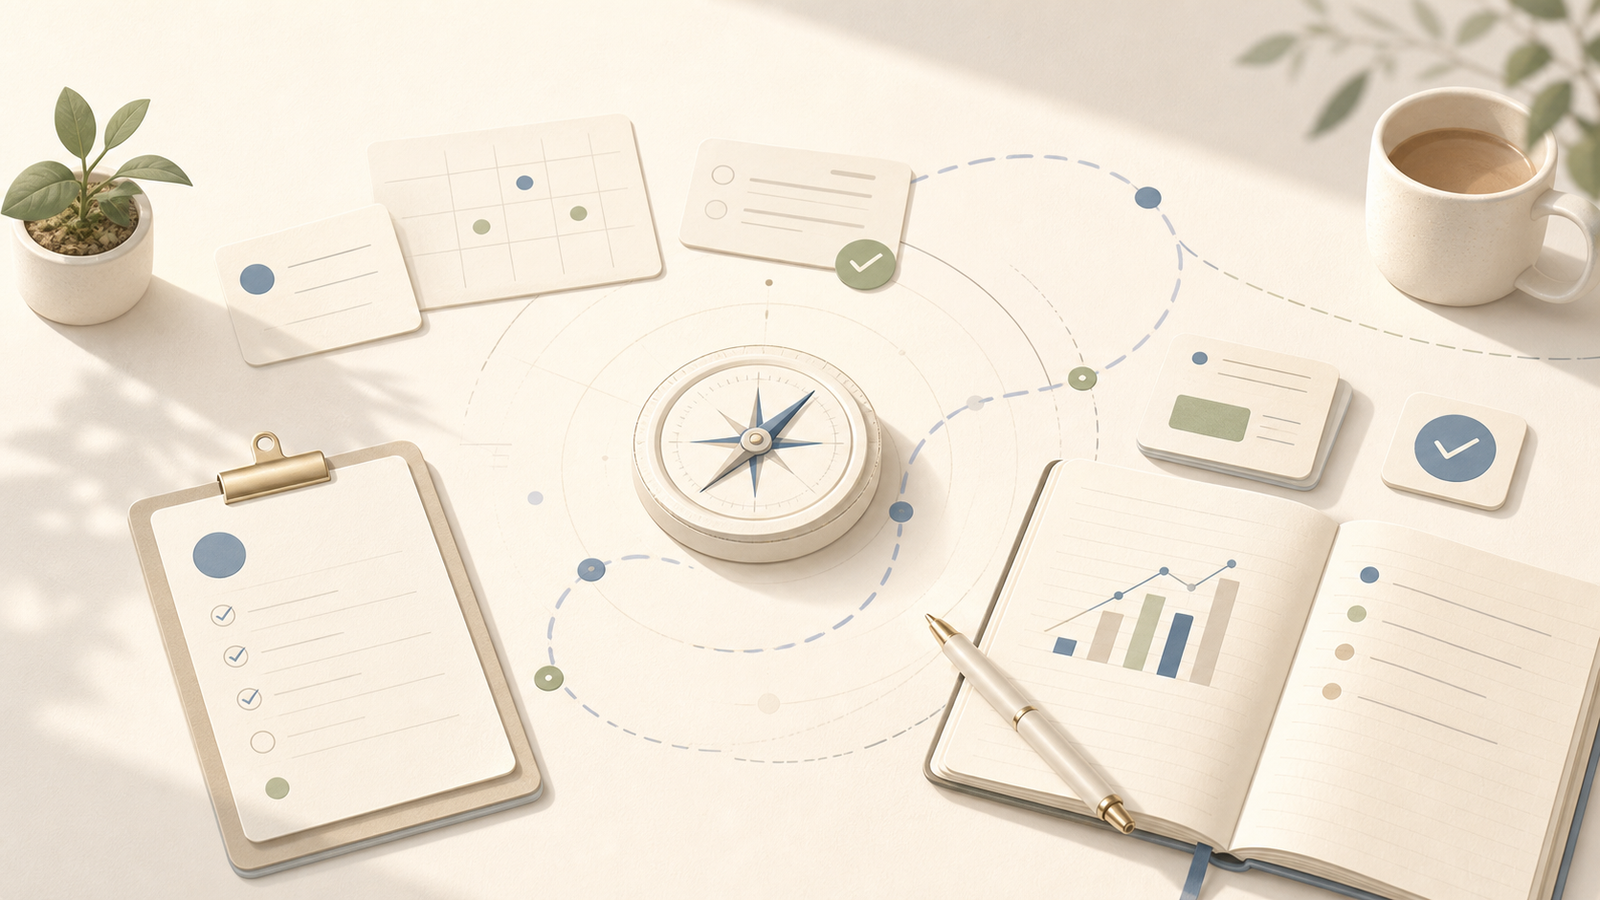
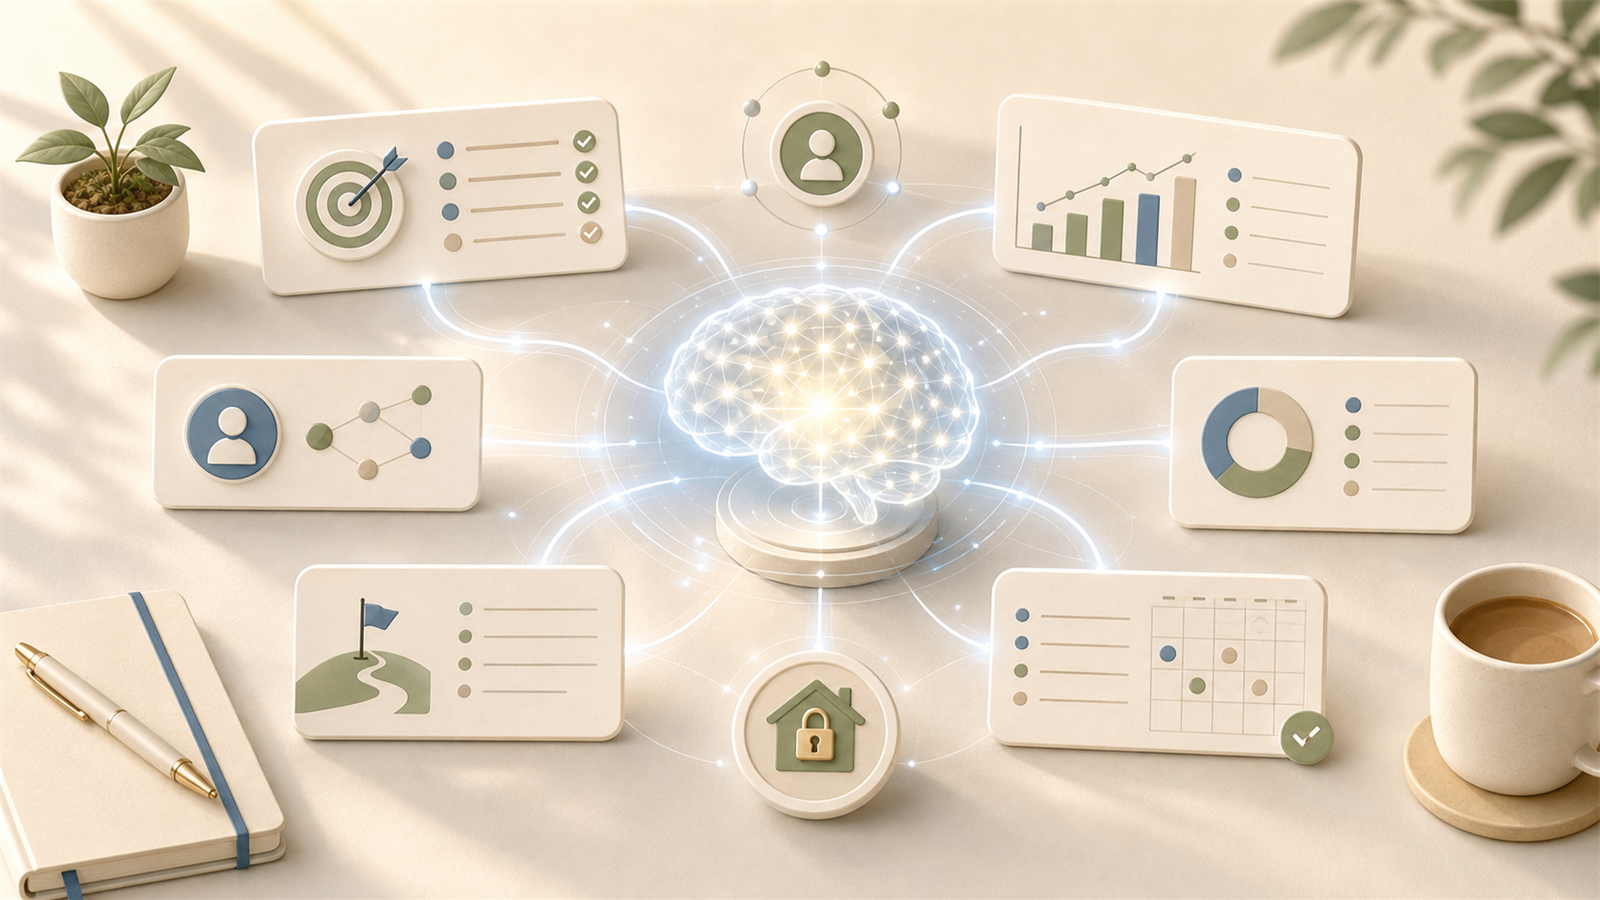
Update README AI workbench visuals

diff --git a/README.en.md b/README.en.md
@@ -1,14 +1,14 @@
 <p align="center">
-  <img src="docs/assets/daypilot-hero-banner.png" alt="DayPilot brand banner" width="920">
+  <img src="docs/assets/daypilot-hero-banner.png" alt="DayPilot AI daily workbench banner" width="920">
 </p>
 
 <p align="center">
-  <img src="docs/assets/daypilot-logo.png" alt="DayPilot Logo" width="112">
+  <img src="docs/assets/daypilot-logo.png" alt="DayPilot AI workbench logo" width="112">
 </p>
 
 <h1 align="center">DayPilot</h1>
 
-<p align="center">A local, private, single-user daily workbench: turn long-term direction into small deliverables for today, then generate a Friday review.</p>
+<p align="center">A local-first, privately controlled AI daily workbench that learns your habits over time: it adjusts goals from your profile, project progress, and daily feedback, then generates weekly reviews.</p>
 
 <p align="center">
   <a href="README.md">中文</a>
@@ -25,41 +25,43 @@
 
 ## What Is DayPilot
 
-DayPilot is a personal work agent designed around roughly four effective work hours per day. It does not try to replace your big life planning. Instead, it compresses your long-term direction, current projects, preferences, and constraints into a goal you can deliver, check, and review today.
+DayPilot is a local-first, single-user, privately controlled AI daily workbench designed around roughly four effective work hours per day. It does not try to replace your big life planning. Instead, it compresses your long-term direction, current projects, preferences, and constraints into a goal you can deliver, check, and review today.
+
+It keeps learning from `SOUL.md`, the SQLite user profile, project history, feedback revisions, check-ins, and weekly-report preferences. The more you use it, the closer DayPilot can stay to your work rhythm, output preferences, energy boundaries, and career direction.
 
 Its core loop is short:
 
-1. On workdays, it reads your long-term context and current projects, then generates today's goal.
+1. On workdays, it reads your long-term context, current projects, and profile data, then generates today's goal.
 2. During the day, you can revise the goal with feedback, such as narrowing scope, changing the output format, or adjusting the time budget.
-3. In the evening, you submit a check-in with completion status, subjective difficulty, and tomorrow's direction.
-4. On Friday, it generates a weekly report and next-week focus from the week's records.
+3. In the evening, you submit a check-in with completion status, subjective difficulty, project progress, and tomorrow's direction.
+4. On Friday, it generates a weekly report and next-week focus from the week's records, then uses stable preferences to shape later output.
 
-By default, data stays on your machine: the SQLite database, LLM logs, backups, and your real `SOUL.md` are not uploaded to external services, except for the DeepSeek API calls you configure.
+The AI is not just a task generator. It helps organize project state, rewrite today's goal, adjust weekly-report focus, suggest profile updates, and support career-planning conversations. By default, data stays on your machine: the SQLite database, LLM logs, backups, and your real `SOUL.md` are not uploaded to external services, except for the DeepSeek API calls you configure.
 
 ## Features
 
-**Daily goal**: Generate a small and deliverable goal for the active project, with acceptance criteria, minimum output, time estimate, and difficulty.
+**Local private workbench**: Keep the SQLite database, LLM logs, backups, and real `SOUL.md` on your machine by default, so personal projects, preferences, reviews, and career context can compound privately.
 
-**Feedback revision**: On the Today page, enter feedback like "I only have 45 minutes today", "this is too large", or "I want to write code", and DayPilot will generate a new goal version.
+**A personal profile that gets smarter with use**: Detect habits and constraints from stable context, daily feedback, check-ins, weekly-report preferences, and career chat. New profile facts become pending suggestions first, then are written to SQLite and `SOUL.md` only after confirmation.
 
-**Career planning chat**: In the **Career Planning** tab, talk to a private career-development planning assistant. It reads `SOUL.md`, the structured user profile, project history, ability state, and recent records to help decide what to do with spare time and how to build transferable skills and portfolio evidence.
+**AI project and goal adjustment**: Generate small, deliverable goals for active projects with acceptance criteria, minimum output, time estimate, and difficulty. Changes to project names, summaries, planning guidance, targets, or priority can refresh the matching daily goal.
 
-**Long-term memory**: When feedback reveals a stable preference, such as "do not give me pure learning goals" or "each goal must leave an inspectable output", the system writes it to the database and syncs it into the user profile section of `SOUL.md`.
+**Feedback revision and long-term memory**: On the Today page, enter feedback like "I only have 45 minutes today", "this is too large", or "I want to write code", and DayPilot will generate a new goal version. Stable preferences, such as "do not give me pure learning goals" or "each goal must leave an inspectable output", become long-term memory.
 
-**Project updates**: Add projects, mark projects complete, and update project status in natural language, or edit the current-project section in `SOUL.md` and click **Refresh** on the Today page. The system keeps the current project list in sync.
+**Natural-language project updates**: Add projects, mark projects complete, and update project status in natural language, or edit the current-project section in `SOUL.md` and click **Refresh** on the Today page. Project facts feed later goals and reviews.
 
-**End-of-day check-in**: Record completion text, completion status, felt difficulty, and tomorrow's direction as evidence for later goals and weekly reports.
+**AI weekly review**: End-of-day check-ins record completion text, completion status, felt difficulty, and tomorrow's direction. On Friday, DayPilot uses that evidence to generate a weekly report and next-week focus, then accepts feedback to create a new version.
 
-**Weekly review**: Generate a Friday weekly report and next-week focus, then continue giving feedback to create a new version.
+**Career planning assistant**: In the **Career Planning** tab, talk to a private career-development planning assistant. It reads `SOUL.md`, the structured user profile, project history, ability state, and recent records to help decide what to do with spare time and how to build transferable skills and portfolio evidence.
 
 ## How To Enter Personal Context
 
-DayPilot needs to know who you are, what you are working on, and how you like to work. There are two kinds of input: stable context before startup, and daily context inside the web app.
+DayPilot needs to know who you are, what you are working on, and how you like to work. There are two kinds of input: stable context before startup, and daily context inside the web app. This context shapes later daily goals, project adjustments, weekly reviews, career-planning advice, and generated content style.
 
 | Entry | Where to enter it | What to enter | How the system uses it |
 | --- | --- | --- | --- |
-| DeepSeek config | `.env` | `DEEPSEEK_API_KEY`, model, and timeout settings | The API key is required only when `DAYPILOT_LLM_MODE=deepseek`. The real LLM path uses it to generate goals, interpret feedback, and generate weekly reports. |
-| Stable personal profile | `SOUL.md`, copied from `SOUL.example.md` | Long-term direction, current skills, personality and work style, development intentions, career values and constraints, current project boundaries, user preferences, avoid rules, time budget, and goal-generation principles | Read on every agent call as long-term context. Good for stable information, not for temporary same-day details. |
+| DeepSeek config | `.env` | `DEEPSEEK_API_KEY`, model, and timeout settings | The API key is required only when `DAYPILOT_LLM_MODE=deepseek`. The real LLM path uses it to generate goals, interpret feedback, organize project state, generate weekly reports, and answer career-planning chats. |
+| Stable personal profile | `SOUL.md`, copied from `SOUL.example.md` | Long-term direction, current skills, personality and work style, development intentions, career values and constraints, current project boundaries, user preferences, avoid rules, time budget, and goal-generation principles | Read on every agent call as long-term context, shaping goals, weekly reports, career advice, and later generated content. Good for stable information, not for temporary same-day details. |
 | Career planning chat | Left-side **Career Planning** in the web app | Spare time, career questions, desired direction, current skills, and personality notes | Gives direction analysis, clarifying questions, project suggestions, risks, and next actions. New profile facts become pending suggestions first, then are written to SQLite and `SOUL.md` only after user confirmation. |
 | Project changes | Left-side **Project Update**, or edit `SOUL.md` and click Today **Refresh** | "Add project: ... current progress: ... goal: ...", or maintain the current-project numbered/bulleted list in `SOUL.md` | Written to the SQLite project table and reflected in the current-project section of `SOUL.md`; active projects removed from that list are marked completed, with history preserved. |
 | Today's preference or constraint | Today page **Feedback Revision** | "I only have 30 minutes today", "this goal is too large", "I want to do experiments", or "do not give abstract goals later" | First revises today's goal. If it is a stable preference or avoid pattern, it becomes long-term memory. |
@@ -325,6 +327,7 @@ scripts\restore_latest_db.bat
 
 ## Data Safety
 
+- DayPilot keeps personal databases, profiles, backups, and logs on your machine by default. In real LLM mode, it sends only the context needed for the current AI feature to your configured DeepSeek API endpoint.
 - `.env` is ignored by git and should contain only your local API key.
 - `data/db/`, `data/backups/`, `data/tmp/`, and `data/llm_logs/` are ignored by default.
 - LLM logs do not write API keys or Authorization headers.

diff --git a/README.md b/README.md
@@ -1,14 +1,14 @@
 <p align="center">
-  <img src="docs/assets/daypilot-hero-banner.png" alt="DayPilot 品牌横幅" width="920">
+  <img src="docs/assets/daypilot-hero-banner.png" alt="DayPilot AI 日用工作台横幅" width="920">
 </p>
 
 <p align="center">
-  <img src="docs/assets/daypilot-logo.png" alt="DayPilot Logo" width="112">
+  <img src="docs/assets/daypilot-logo.png" alt="DayPilot AI 工作台 Logo" width="112">
 </p>
 
 <h1 align="center">DayPilot</h1>
 
-<p align="center">一个本地、私有、单用户的日用工作台：把长期方向拆成每天可交付的小目标，并在周五生成复盘。</p>
+<p align="center">一个本地优先、私有可控、越用越懂你的 AI 日用工作台：根据个人画像、项目进展和每日反馈自动调整目标，并生成周报复盘。</p>
 
 <p align="center">
   <a href="README.en.md">English</a>
@@ -25,41 +25,43 @@
 
 ## DayPilot 是什么
 
-DayPilot 是一个围绕“每天约 4 小时有效工作时间”设计的个人工作 Agent。它不会替你做宏大人生规划，而是把长期方向、当前项目、偏好和限制，压缩成今天能交付、能检查、能复盘的小目标。
+DayPilot 是一个本地优先、单用户、私人可控的 AI 日用工作台，围绕“每天约 4 小时有效工作时间”设计。它不会替你做宏大人生规划，而是把长期方向、当前项目、偏好和限制，压缩成今天能交付、能检查、能复盘的小目标。
+
+它会从 `SOUL.md`、SQLite 用户画像、项目历史、反馈修正、check-in 和周报偏好里持续理解你的个人习惯。用得越久，DayPilot 越能贴近你的工作节奏、产出偏好、精力边界和职业发展方向。
 
 它的核心循环很短：
 
-1. 工作日读取你的长期上下文和当前项目，生成今日目标。
+1. 工作日读取你的长期上下文、当前项目和画像信息，生成今日目标。
 2. 白天可以用反馈修正目标，例如缩小范围、改变产出形式、调整时间预算。
-3. 晚上提交 check-in，记录完成情况、主观难度和明日方向。
-4. 周五基于一周记录生成周报和下周重点。
+3. 晚上提交 check-in，记录完成情况、主观难度、项目进展和明日方向。
+4. 周五基于一周记录生成周报、下周重点，并吸收稳定偏好影响后续生成。
 
-数据默认都在本机：SQLite 数据库、LLM 日志、备份文件和你的真实 `SOUL.md` 都不会上传到外部服务，除了你主动配置的 DeepSeek API 调用。
+AI 能力不只负责“生成一条任务”，还会参与项目状态整理、今日目标重写、周报重点调整、用户画像建议和职业规划对话。数据默认都在本机：SQLite 数据库、LLM 日志、备份文件和你的真实 `SOUL.md` 都不会上传到外部服务，除了你主动配置的 DeepSeek API 调用。
 
 ## 功能特性
 
-**每日目标**：为当前 active 项目生成小而可交付的目标，带完成标准、最低成果、时间估计和难度。
+**本地私有工作台**：默认把 SQLite 数据库、LLM 日志、备份文件和真实 `SOUL.md` 留在本机，适合沉淀个人项目、偏好、复盘和职业上下文。
 
-**反馈修正**：在 Today 页面输入“今天只有 45 分钟”“这个太大了”“我更想写代码”，DayPilot 会生成新的目标版本。
+**越用越懂你的个人画像**：从稳定上下文、日常反馈、check-in、周报偏好和职业规划聊天中识别习惯与约束；可沉淀的信息会先形成待确认建议，确认后写入 SQLite 和 `SOUL.md`。
 
-**职业规划聊天**：在 **职业规划** Tab 里和私人职业发展规划助手对话。它会读取 `SOUL.md`、结构化用户画像、项目历史、能力状态和最近记录，帮你判断空余时间适合做什么、怎样积累可迁移能力和作品证据。
+**AI 项目与目标自动调整**：根据当前 active 项目、项目状态变化和当天反馈生成小而可交付的目标，带完成标准、最低成果、时间估计和难度；项目名、摘要、规划指导或优先级变化后，也会刷新相关今日目标。
 
-**长期记忆**：当反馈里出现稳定偏好，例如“以后不要给纯学习目标”“每次都要有可验收产出”，系统会写入数据库，并同步到 `SOUL.md` 的用户画像段落。
+**反馈修正与长期记忆**：在 Today 页面输入“今天只有 45 分钟”“这个太大了”“我更想写代码”，DayPilot 会生成新的目标版本；当反馈里出现稳定偏好，例如“以后不要给纯学习目标”“每次都要有可验收产出”，系统会把它沉淀为长期记忆。
 
-**项目更新**：用自然语言添加项目、标记项目完成、更新项目状态，或直接编辑 `SOUL.md` 的“当前项目”段落后点击 Today 页“刷新”，系统会同步当前项目列表。
+**自然语言项目更新**：用自然语言添加项目、标记项目完成、更新项目状态，或直接编辑 `SOUL.md` 的“当前项目”段落后点击 Today 页“刷新”，系统会同步当前项目列表，并把项目事实用于后续目标与复盘。
 
-**日终 check-in**：记录完成文本、完成状态、体感难度和明日方向，作为后续目标和周报的证据。
+**AI 周报复盘**：日终 check-in 会记录完成文本、完成状态、体感难度和明日方向，周五基于这些证据生成周报、下周重点，并支持继续反馈生成新版本。
 
-**周报复盘**：周五生成周报、下周重点，并支持对周报继续反馈生成新版本。
+**职业规划助手**：在 **职业规划** Tab 里和私人职业发展规划助手对话。它会读取 `SOUL.md`、结构化用户画像、项目历史、能力状态和最近记录，帮你判断空余时间适合做什么、怎样积累可迁移能力和作品证据。
 
 ## 个人上下文怎么输入
 
-DayPilot 需要先了解你是谁、你在做什么、你喜欢怎样工作。输入入口分为“启动前的稳定上下文”和“网页里的日常上下文”。
+DayPilot 需要先了解你是谁、你在做什么、你喜欢怎样工作。输入入口分为“启动前的稳定上下文”和“网页里的日常上下文”。这些上下文会影响后续今日目标、项目调整、周报复盘、职业规划建议和内容生成口径。
 
 | 入口 | 在哪里输入 | 输入什么 | 系统如何使用 |
 | --- | --- | --- | --- |
-| DeepSeek 配置 | `.env` | `DEEPSEEK_API_KEY`、模型和超时配置 | 只有 `DAYPILOT_LLM_MODE=deepseek` 时必须存在 API Key；真实 LLM 路径用它生成目标、解释反馈和生成周报。 |
-| 稳定个人画像 | `SOUL.md`，由 `SOUL.example.md` 复制而来 | 长期方向、当前技能点、性格与工作方式、发展意愿、职业价值观与约束、当前项目边界、用户偏好、避免事项、时间预算、目标生成原则 | 每次 Agent 调用都会读取，作为长期上下文。适合写长期稳定的信息，不适合写当天临时情况。 |
+| DeepSeek 配置 | `.env` | `DEEPSEEK_API_KEY`、模型和超时配置 | 只有 `DAYPILOT_LLM_MODE=deepseek` 时必须存在 API Key；真实 LLM 路径用它生成目标、解释反馈、整理项目状态、生成周报和职业规划回复。 |
+| 稳定个人画像 | `SOUL.md`，由 `SOUL.example.md` 复制而来 | 长期方向、当前技能点、性格与工作方式、发展意愿、职业价值观与约束、当前项目边界、用户偏好、避免事项、时间预算、目标生成原则 | 每次 Agent 调用都会读取，作为长期上下文，影响目标、周报、职业建议和后续内容生成。适合写长期稳定的信息，不适合写当天临时情况。 |
 | 职业规划聊天 | 网页左侧 **职业规划** | 空余时间、职业困惑、想发展的方向、当前技能和性格补充 | 给出方向判断、澄清问题、项目建议、风险提醒和下一步行动；发现可沉淀的新画像信息时，先生成待确认建议，用户确认后才写入 SQLite 和 `SOUL.md`。 |
 | 项目变化 | 网页左侧 **项目更新**，或编辑 `SOUL.md` 后点击 Today 页 **刷新** | “新增项目：... 当前进度：... 目标：...”，或在“当前项目”段落维护编号/项目符号列表 | 写入 SQLite 项目表，并更新 `SOUL.md` 的当前项目段落；从该列表消失的 active 项目会标记完成并保留历史。 |
 | 当天偏好/约束 | Today 页 **反馈修正** | “今天只有 30 分钟”“这个目标太大”“更想做实验”“以后不要给抽象目标” | 先修正今日目标；如果是稳定偏好或避免模式，会沉淀为长期记忆。 |
@@ -326,6 +328,7 @@ scripts\restore_latest_db.bat
 
 ## 数据安全
 
+- DayPilot 默认把个人数据库、画像、备份和日志保留在本机；真实 LLM 模式只会向你配置的 DeepSeek API 发送完成当前 AI 功能所需的上下文。
 - `.env` 被 git 忽略，里面只放本机 API Key。
 - `data/db/`、`data/backups/`、`data/tmp/`、`data/llm_logs/` 默认被 git 忽略。
 - LLM 日志不会写入 API Key 或 Authorization header。